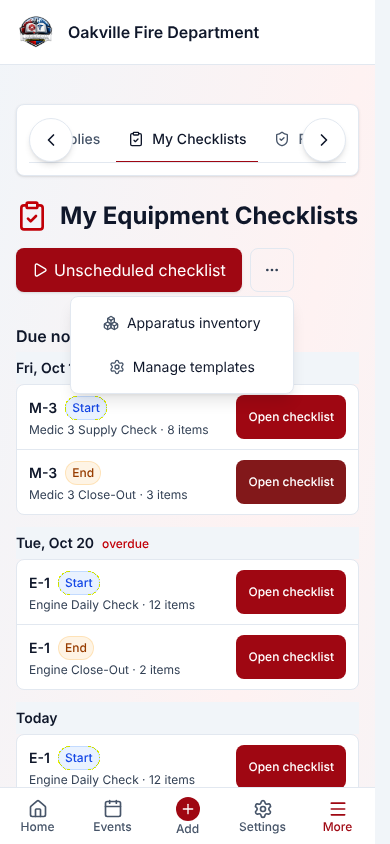
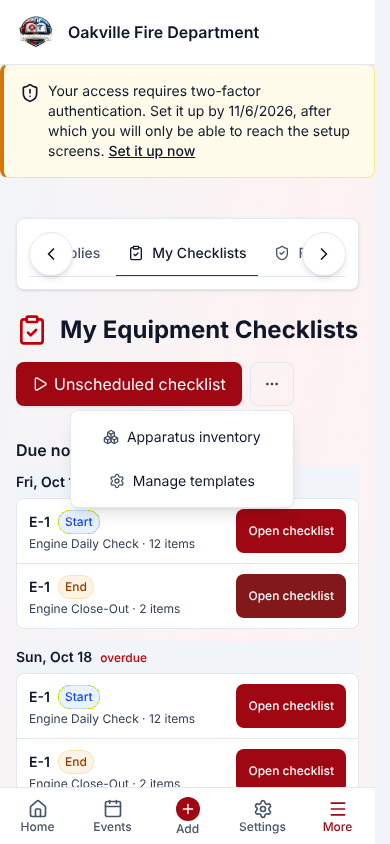
docs(training): re-shoot 03-126 My Checklists on a phone
The image was captured before the overdue marker on My Checklists moved to
the server, which now sets isOverdue from the shift's end time rather than
its date. Re-captured from current main against the seeded demo: the
administrator's two unfiled E-1 shifts (Fri Oct 16 and Sun Oct 18, both
ended) carry the marker, rows show their Start and End badges, and the
overflow menu is open. SCREENSHOT_CURRENCY marks the shot current.

Claude-Session: https://claude.ai/code/session_01BZV8sgzbwGzZNz8nqZAgnA

diff --git a/docs/training/SCREENSHOT_CURRENCY.md b/docs/training/SCREENSHOT_CURRENCY.md
@@ -330,7 +330,7 @@ down carry their own dispositions.
 | `03-117-reporting-summary`, `03-118-report-card-phone` | **CURRENT** 2026-10-17 | New: Your reporting summary with the per-month chart; a report card at 390px |
 | `03-119-pattern-generate-nothing-new` | **CURRENT** 2026-10-17 | New: a pattern re-run over the seeded platoon window, creating nothing |
 | `03-120-history-import-list`, `03-121-history-import-members` | **CURRENT** 2026-10-17 | New: the import list with one draft, and the draft's Members tab |
-| My Checklists on a phone (03 placeholder) | **NOT POSSIBLE** as described | Left open; see the October 15 – 16 queue below |
+| My Checklists on a phone (03 placeholder), `03-126-my-checklists-phone` | **CURRENT** 2026-10-23 (re-shot) | Was NOT POSSIBLE, left open; see the October 15 – 16 queue below. Re-shot after overdue moved to the server's end-of-shift rule: the administrator's two unfiled E-1 shifts (Fri Oct 16, Sun Oct 18, both ended 23:00 UTC) carry `isOverdue`. The administrator's two-factor grace banner sits above the page |
 | Scheduling setup guide card (03 placeholder) | **NOT POSSIBLE** in the seeded demo | Renders only while a department has no templates |
 
 ## Guide 01 re-shot or added 2026-10-17
@@ -408,7 +408,7 @@ row.
 | Medical Supplies **Lots** dialog                    | **CURRENT** 2026-10-17, covered by `05-89`                  | The Lots button opens the same dialog: Where it is, then Stock lots with the edit and delete controls and the Add lot form                                                                                                                                                                                                                                                       |
 | Medical categories page                             | **CURRENT** 2026-10-17 as `05-91-medical-categories`        | Cards read "Show N supplies"; Airway & Oxygen opened to its supplies                                                                                                                                                                                                                                                                                                             |
 | Catalog Links, after **Link matches automatically** | **CURRENT** 2026-10-17 as `05-92-catalog-links-auto-linked` | The shot runs a real pass and undoes every link afterwards; the next seed also restores the Rescue 7 lines                                                                                                                                                                                                                                                                       |
-| My Checklists on a phone                            | **NOT POSSIBLE** as described                               | The placeholder asks for the overdue marker, and the member's list never contains a past day: `get_my_checklists` returns shifts dated today or later only, so the marker the page draws for a past day with an unfiled check is never reached. The day headings and the **⋯** menu render; the placeholder is left open until the guide's overdue sentence or the query changes. **Update 2026-10-22:** the query changed — it now also returns a shift from the last seven days while a check on it is unfiled — so the shot can be taken with a member seated on a shift two or three days back whose checklist was never filed |
+| My Checklists on a phone                            | **CURRENT** 2026-10-23 as `03-126-my-checklists-phone` (was **NOT POSSIBLE** as described) | The placeholder asks for the overdue marker, and the member's list never contains a past day: `get_my_checklists` returns shifts dated today or later only, so the marker the page draws for a past day with an unfiled check is never reached. The day headings and the **⋯** menu render; the placeholder is left open until the guide's overdue sentence or the query changes. **Update 2026-10-22:** the query changed — it now also returns a shift from the last seven days while a check on it is unfiled — so the shot can be taken with a member seated on a shift two or three days back whose checklist was never filed |
 | Check form with a count at its minimum              | **CURRENT** 2026-10-17                                      | Checked: no captured image shows a **CRITICAL — below minimum** warning (`03-70` and `03-72` show counts at par with no critical minimum set), so none pictures the old behaviour                                                                                                                                                                                                |
 | Google Workspace card (16)                          | **NOT POSSIBLE** in the demo                                | **Link existing members** appears only on a connected card, and both connecting and its preview call Google with a real service account key                                                                                                                                                                                                                                      |
 | Documents admin-only folder confirmation (07)       | **CURRENT** 2026-10-17 as `07-25-folder-admin-only-confirm` | Manage folder on Forms & Templates with Specific positions set to Historian, a position nobody holds; never confirmed                                                                                                                                                                                                                                                            |
